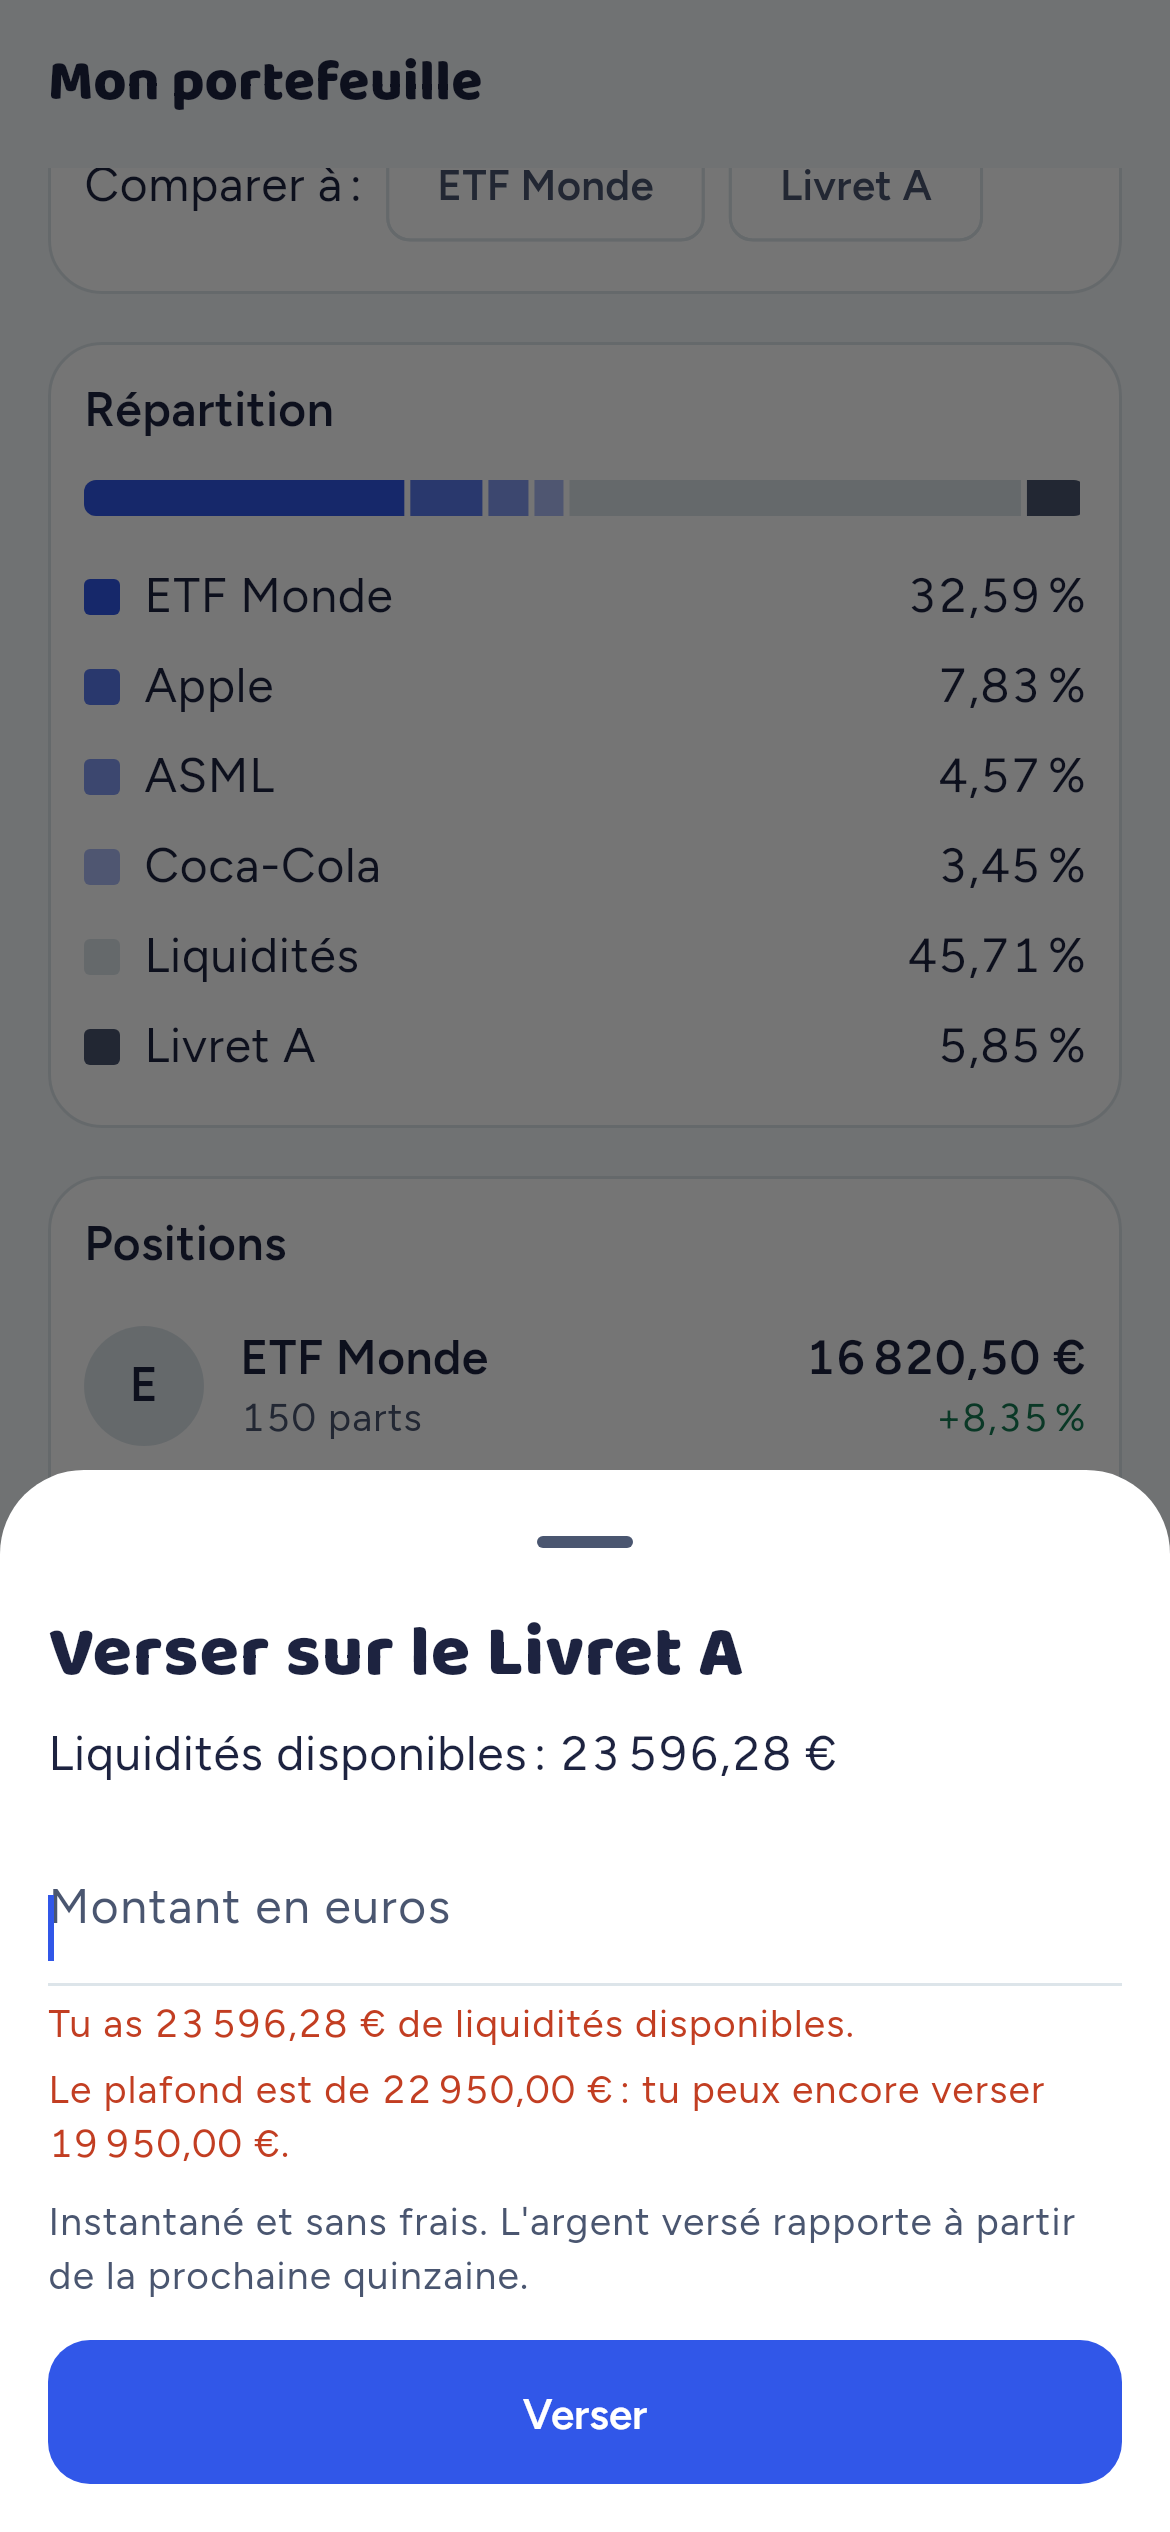
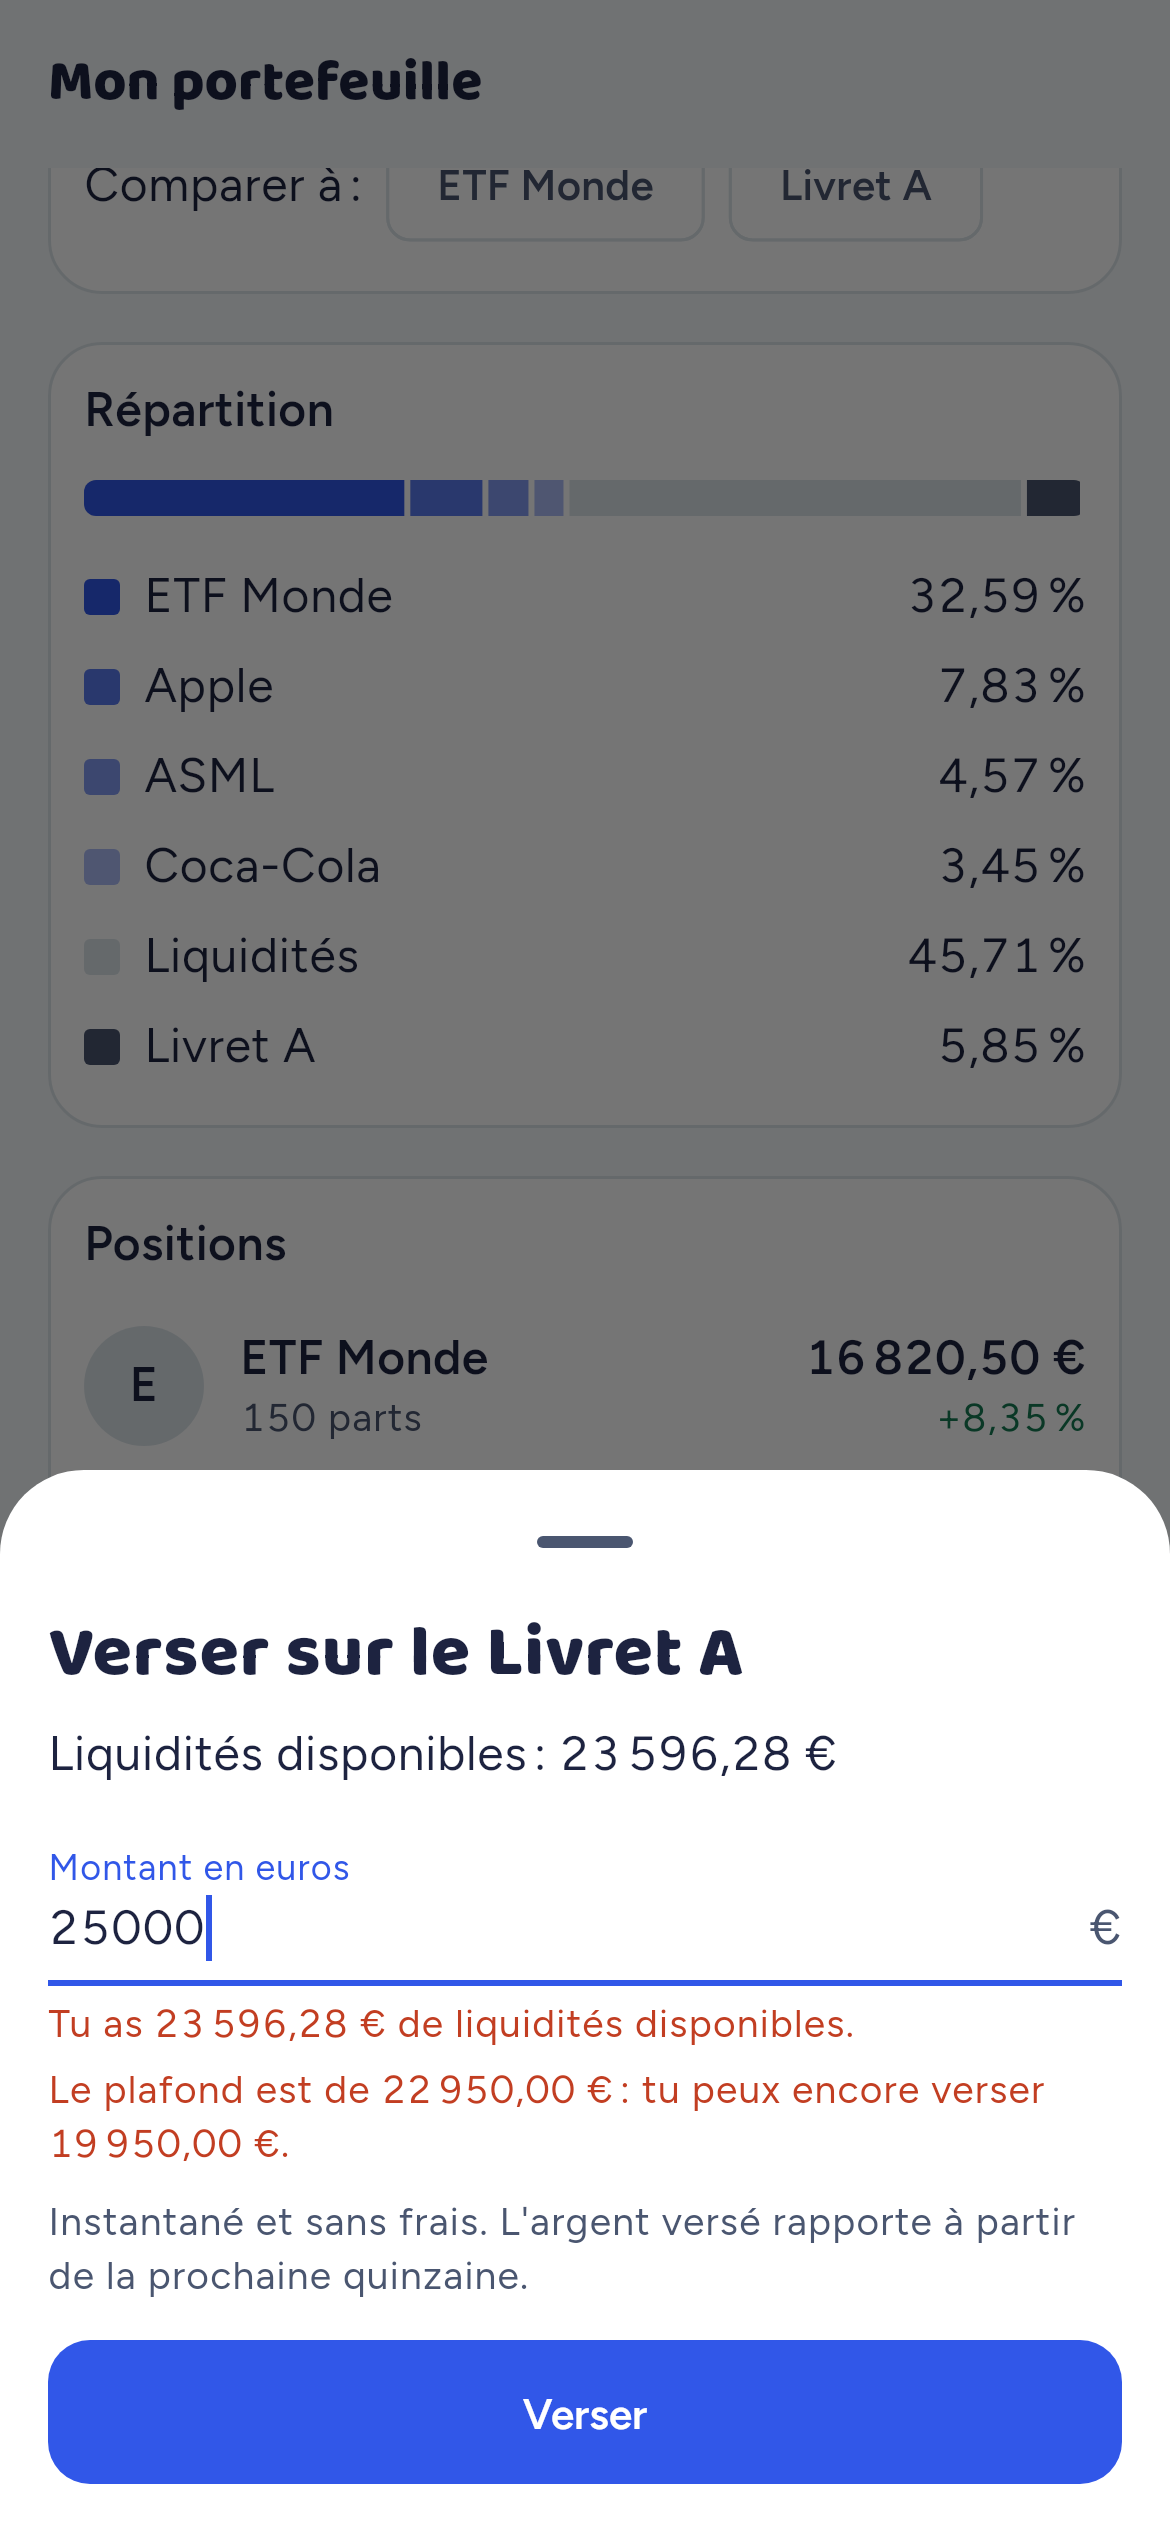
M9-14: The Livret sheet keeps the amount typed

diff --git a/app/test/presentation/features/order_sheet_test.dart b/app/test/presentation/features/order_sheet_test.dart
@@ -327,6 +327,12 @@ void main() {
     await tester.enterText(reason, 'Pour voir');
     await tester.pumpAndSettle();
     expect(ticket.state.value!.form.reason, 'Pour voir');
+    // A limit price coming and going above it leaves the reason typed.
+    for (final type in ['À cours limité', 'Au marché']) {
+      await tester.tap(find.text(type));
+      await tester.pumpAndSettle();
+      expect(find.widgetWithText(TextField, 'Pour voir'), findsOneWidget);
+    }
     await tester.tap(find.widgetWithText(ChunkyButton, 'Acheter'));
     await tester.pumpAndSettle();
     expect(

diff --git a/app/lib/presentation/features/order/order_sheet.dart b/app/lib/presentation/features/order/order_sheet.dart
@@ -373,6 +373,9 @@ class _OrderSheetState extends ConsumerState<OrderSheet> {
         if (c.isTrip) ...[
           const SizedBox(height: AppSpace.x3),
           TextField(
+            // Keeps the reason typed when the limit price above it comes
+            // or goes.
+            key: const ValueKey('order-reason'),
             decoration: InputDecoration(labelText: l10n.order_reason),
             onChanged: actions.setReason,
           ),

diff --git a/app/lib/presentation/features/wallet/livret_card.dart b/app/lib/presentation/features/wallet/livret_card.dart
@@ -196,6 +196,8 @@ class LivretSheet extends ConsumerWidget {
             ),
           const SizedBox(height: AppSpace.x3),
           TextField(
+            // Keeps the amount typed when the hint above it comes or goes.
+            key: const ValueKey('livret-amount'),
             autofocus: true,
             keyboardType: const TextInputType.numberWithOptions(decimal: true),
             decoration: InputDecoration(

diff --git a/app/test/presentation/features/livret_card_test.dart b/app/test/presentation/features/livret_card_test.dart
@@ -121,6 +121,8 @@ void main() {
       ),
       findsOneWidget,
     );
+    // The hint it replaces leaves the amount typed where it was.
+    expect(find.widgetWithText(TextField, '30000'), findsOneWidget);
 
     await tester.enterText(find.byType(TextField), '1000');
     await tester.pump();
